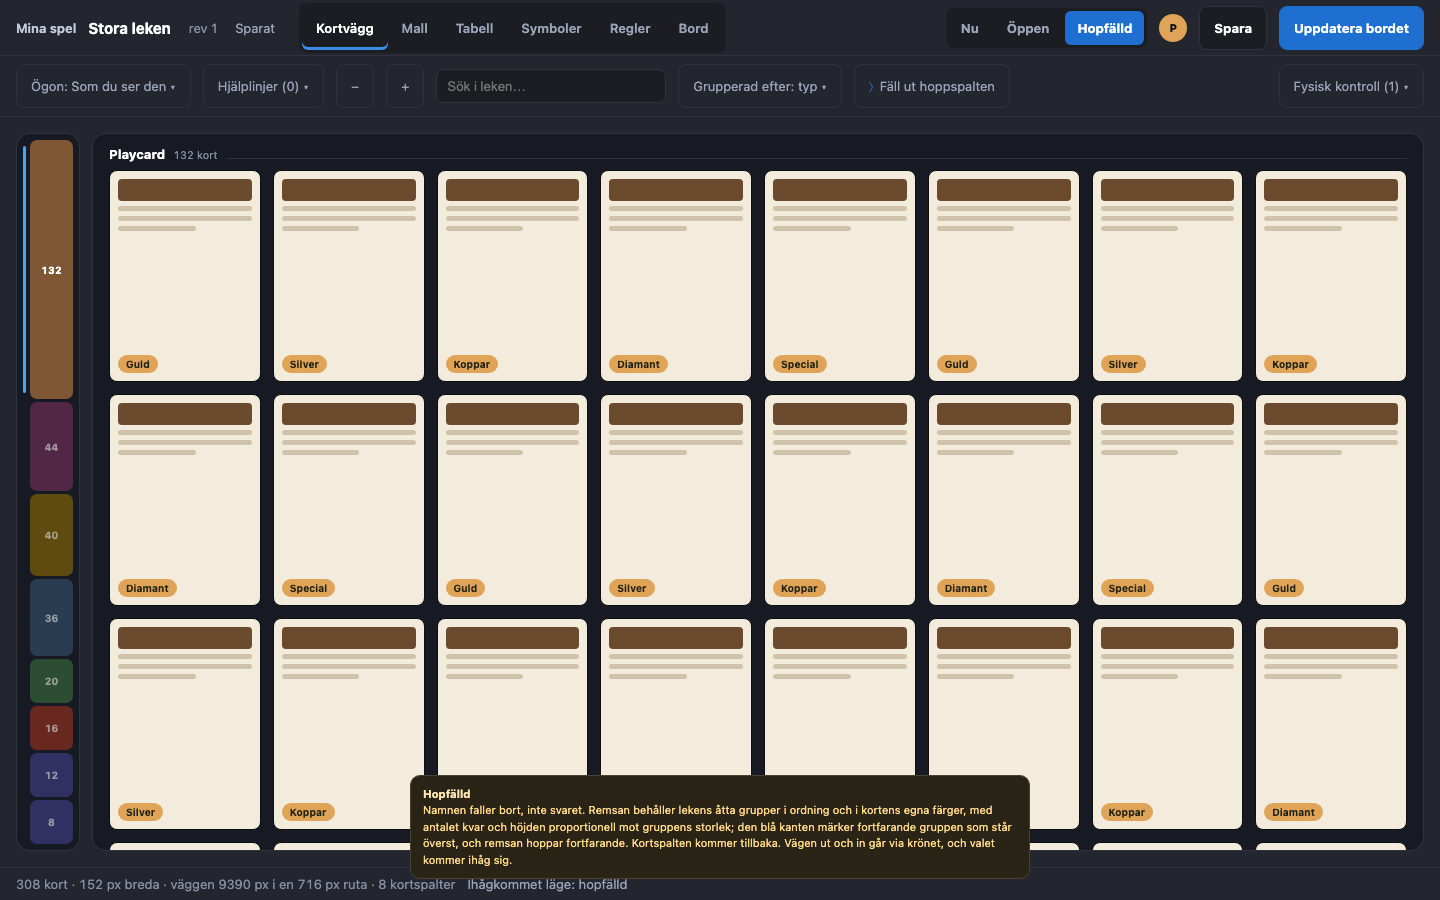
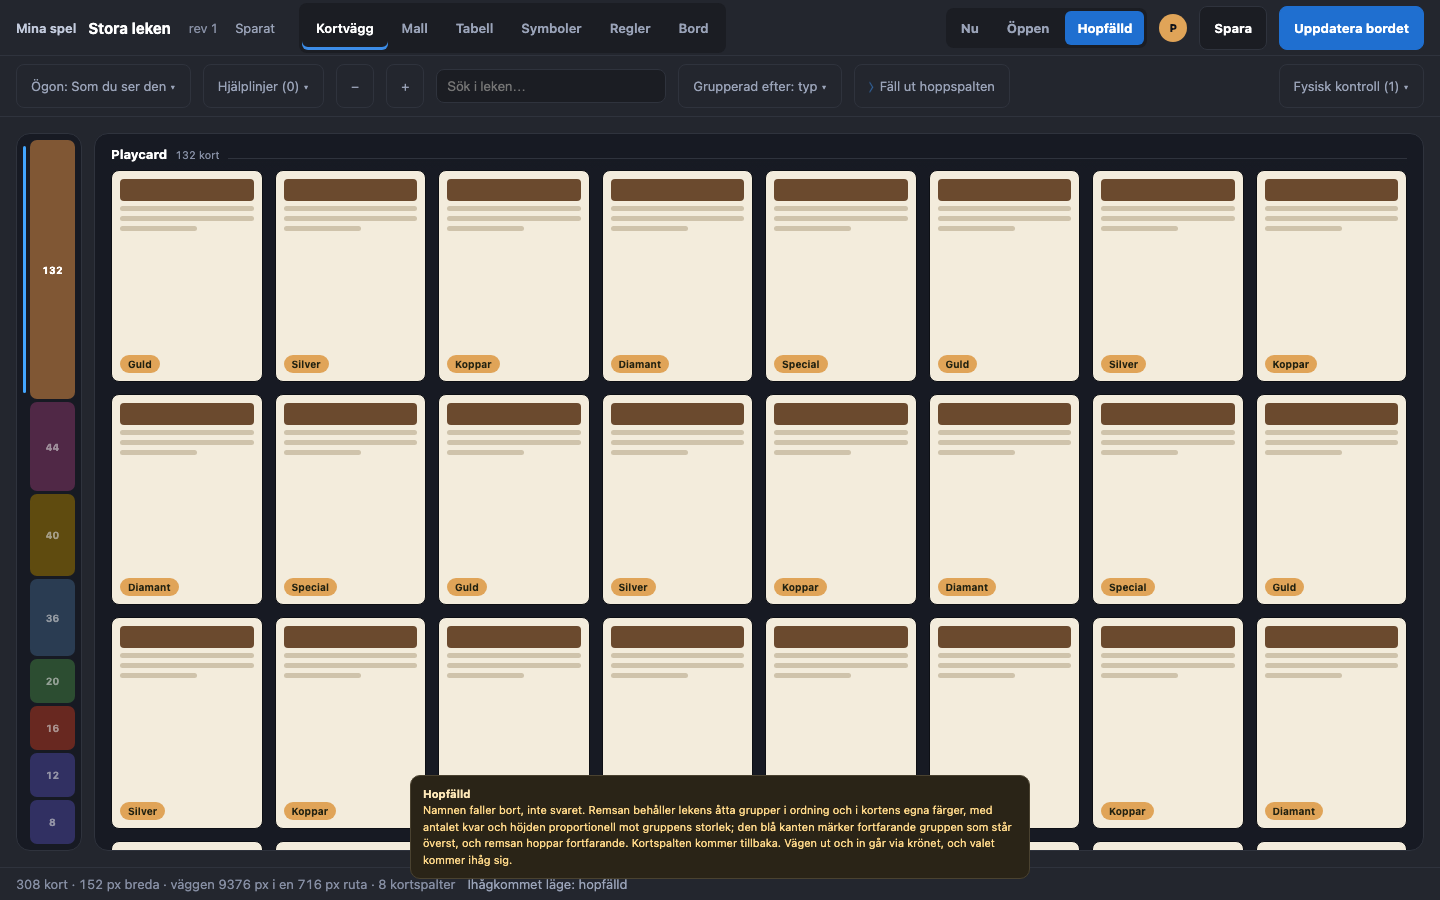
Remsans brickor håller 44 px i båda leder (#179)
Remsan var 64 px bred, vilket gav 43 px breda brickor: `--tap` höll på höjden
men inte på bredden. Repot håller 44 px, och #184 håller just nu på att rätta
samma fel på regelbokens ＋ — en prototyp som själv missar talet med en pixel
säger fel sak om vad som ska byggas.

66 px är räknat och inte valt: brickans 44 plus märkets 13 till vänster, 6 till
höger och remsans ram. Kortspalten kommer tillbaka vid både 1 280 och 1 440
ändå, vilket är hela poängen med det hopfällda läget — väggen är 9 376 px mot
`Nu`:s 9 256, alltså 1,3 % längre i stället för 24 %.

`.claude/launch.json` får en `prototyper`-post: en statisk server på 5310 över
`docs/ux-audits`, så prototyperna går att granska med sitt eget stilark i stället
för som omärkt HTML.

diff --git a/docs/ux-audits/2026-09-17/prototyper/05b-kortvaggen-hopspalt.html b/docs/ux-audits/2026-09-17/prototyper/05b-kortvaggen-hopspalt.html
@@ -20,7 +20,7 @@
      vid 1 440 den åttonde så länge den är under 78 px. 64 px ger alltså tillbaka kortspalten vid
      båda bredderna med marginal kvar för en rullningslist, och lämnar plats åt antalet — det enda
      tal som överlever när namnet faller bort. */
-  .work[data-shape='hopfalld'] { grid-template-columns: 64px minmax(0,1fr); }
+  .work[data-shape='hopfalld'] { grid-template-columns: 66px minmax(0,1fr); }
   /* Väggen flyttar sig en hel spalt. Ett kast på 200 ms gör det till en rörelse man kan följa i
      stället för ett hopp man måste tolka i efterhand; utan det ser det ut som att leken laddats om.
      grid-template-columns animeras av Chromium, som är den enda renderare editorn lovar. */
@@ -48,7 +48,12 @@
      läses som ett tvärsnitt av hela leken och inte bara som en meny. --tap går före proportionen:
      min-height 44 px golvar de fyra minsta grupperna (20, 16, 12 och 8 kort), så svansen är
      tryckt platt medan toppen är sann. Det är avsiktligt — remsan ska gå att träffa, och antalet
-     står ändå utskrivet i brickan för den som vill ha det exakta talet. */
+     står ändå utskrivet i brickan för den som vill ha det exakta talet.
+     Bredden är räknad och inte vald: 66 px är brickans 44 px plus märkets 13 px till vänster,
+     6 px till höger och remsans egen ram. --tap gäller i båda leder, alltså 44 på bredden också —
+     samma regel som #184 håller på att rätta på regelbokens ＋. Två pixlar bredare än remsan
+     behövde vara för att ge tillbaka kortspalten, och kortspalten kommer ändå tillbaka vid både
+     1 280 och 1 440, vilket är hela poängen med det hopfällda läget. */
   .rail { min-height: 0; display: flex; flex-direction: column; gap: 3px; padding: 6px 6px 6px 13px; border-radius: 14px; background: var(--panel); border: 1px solid var(--line); overflow: auto; scrollbar-width: none; }
   .rail button {
     position: relative; flex: 1 1 0; min-height: var(--tap); border: 0; border-radius: 7px; padding: 0;
